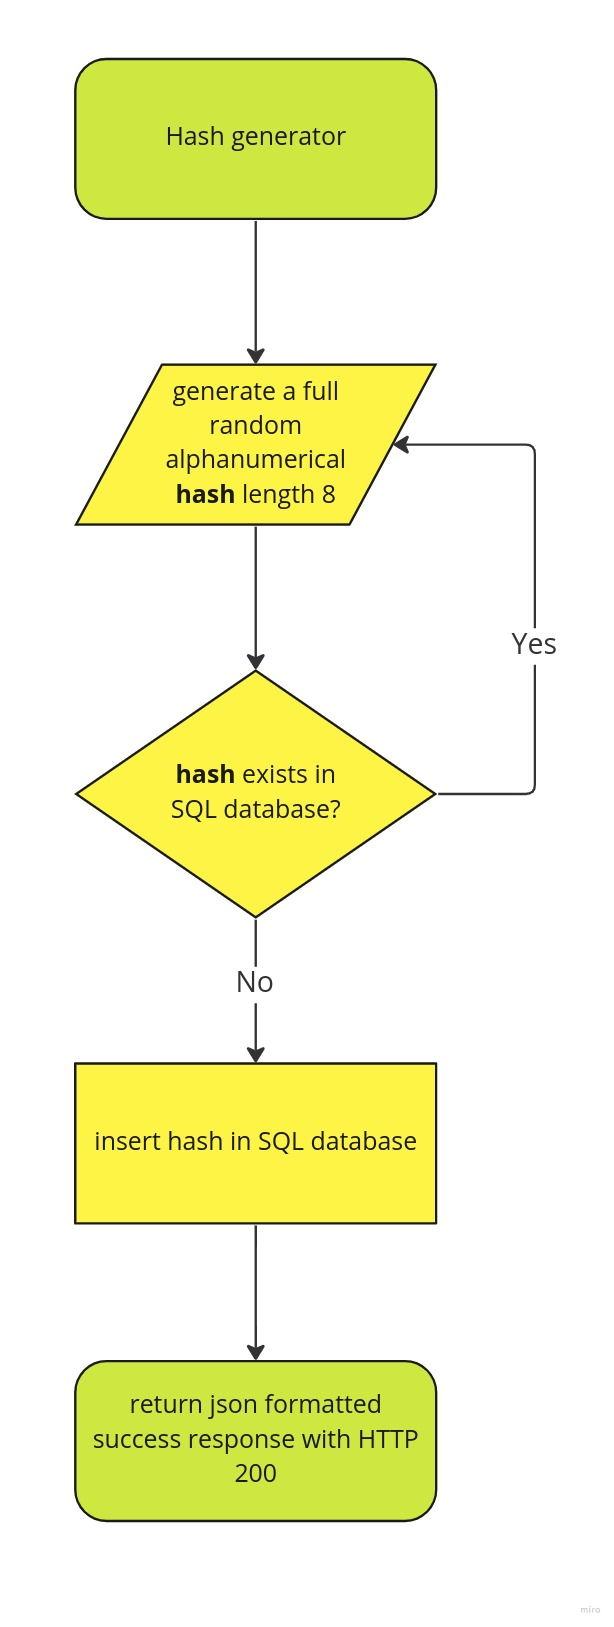
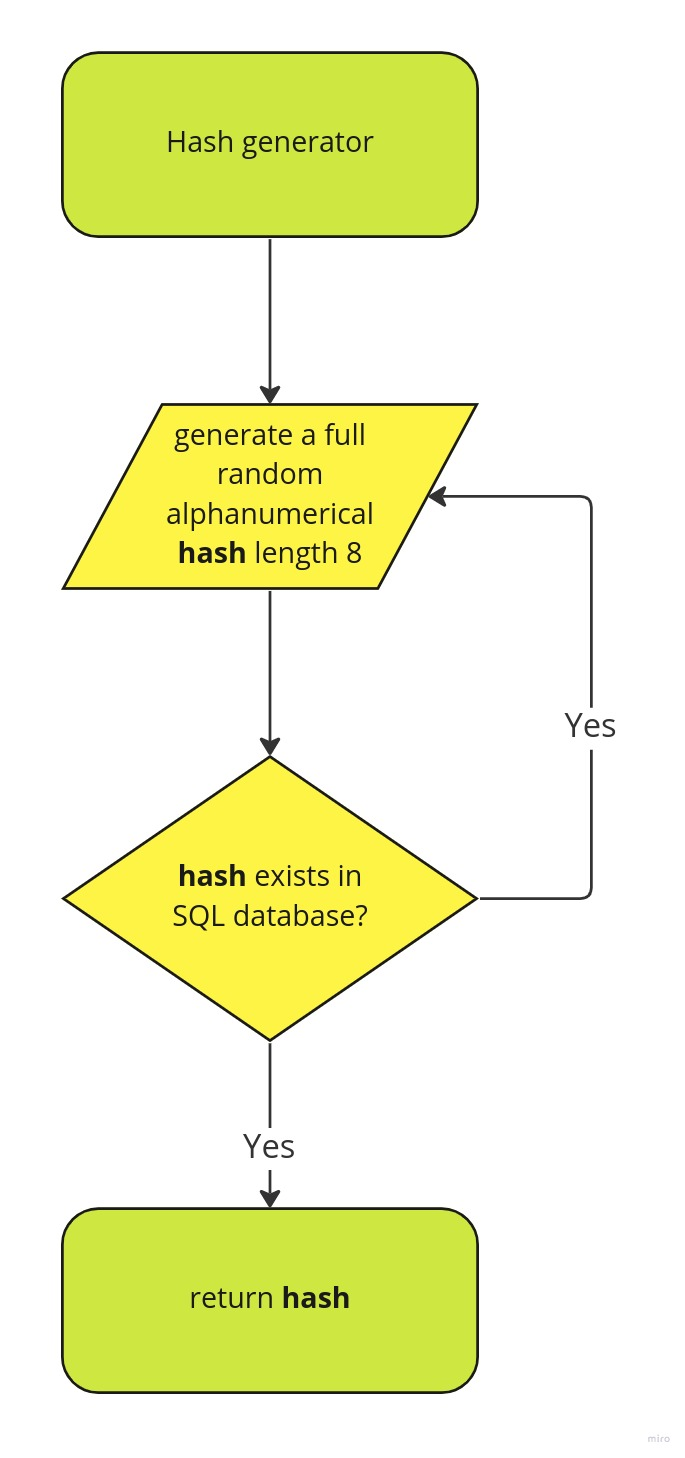
Hash generator implementation

Changed region(s): [[0.0619, 0.0309, 0.7117, 0.9568], [0.8355, 0.2778, 0.8974, 0.6173]]

diff --git a/app/Services/HashGenerator.php b/app/Services/HashGenerator.php
@@ -1,0 +1,29 @@
+<?php
+
+namespace App\Services;
+
+use Illuminate\Support\Facades\Validator;
+use Illuminate\Support\Str;
+
+class HashGenerator
+{
+    /**
+     * generate a random alphanumerical hash that
+     * not exists in database
+     * 
+     * @param integer $lenght
+     * @return string
+     */
+    public static function generate(int $lenght = 8): string
+    {
+        /** @var string */
+        $hash = Str::random($lenght);
+
+        $validator = Validator::make(['hash' => $hash], ['hash' => 'unique:urls,hash']);
+        if ($validator->fails()) {
+            return self::generate($lenght);
+        }
+
+        return $hash;
+    }
+}

diff --git a/tests/Unit/Services/HashGeneratorTest.php b/tests/Unit/Services/HashGeneratorTest.php
@@ -1,0 +1,24 @@
+<?php
+
+namespace Tests\Unit\Services;
+
+use App\Services\HashGenerator;
+use Illuminate\Foundation\Testing\DatabaseMigrations;
+use Tests\TestCase;
+
+class HashGeneratorTest extends TestCase
+{
+    use DatabaseMigrations;
+
+    /**
+     * @return void
+     */
+    public function test_id_generate_hash_is_valid()
+    {
+        $hash = HashGenerator::generate();
+        $this->assertEquals(8, strlen($hash));
+
+        $hash = HashGenerator::generate(10);
+        $this->assertEquals(10, strlen($hash));
+    }
+}
